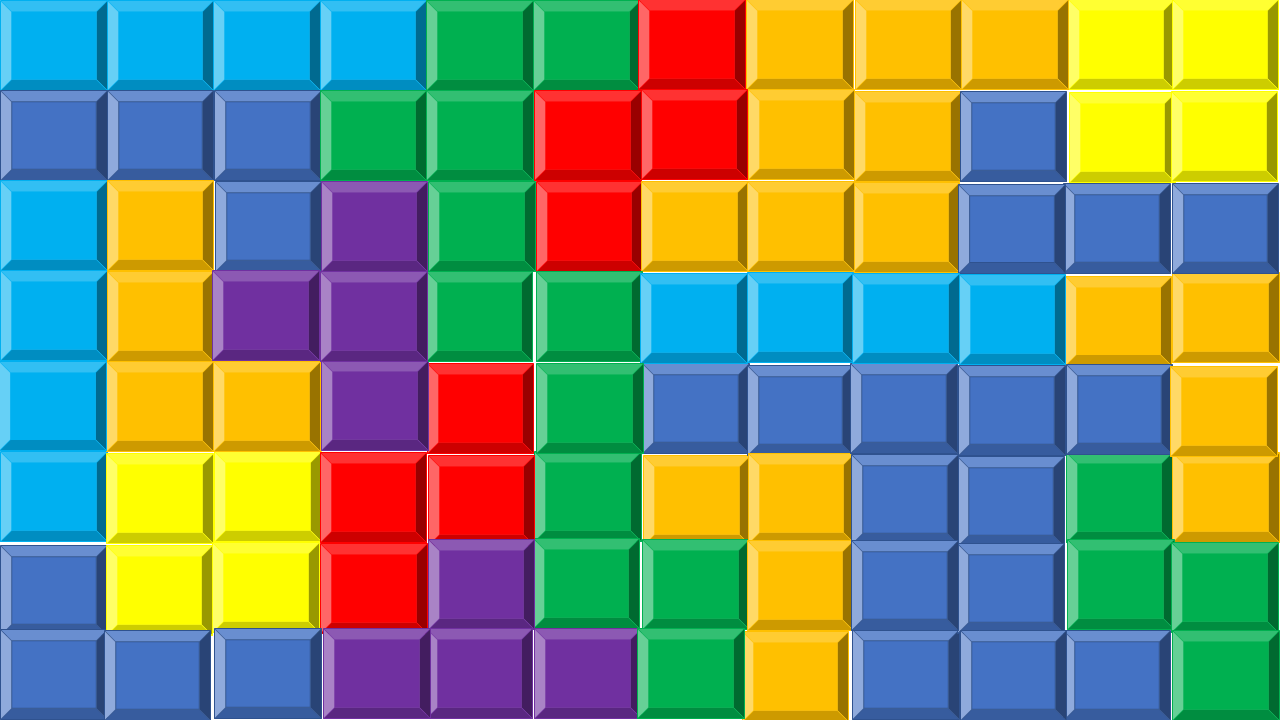
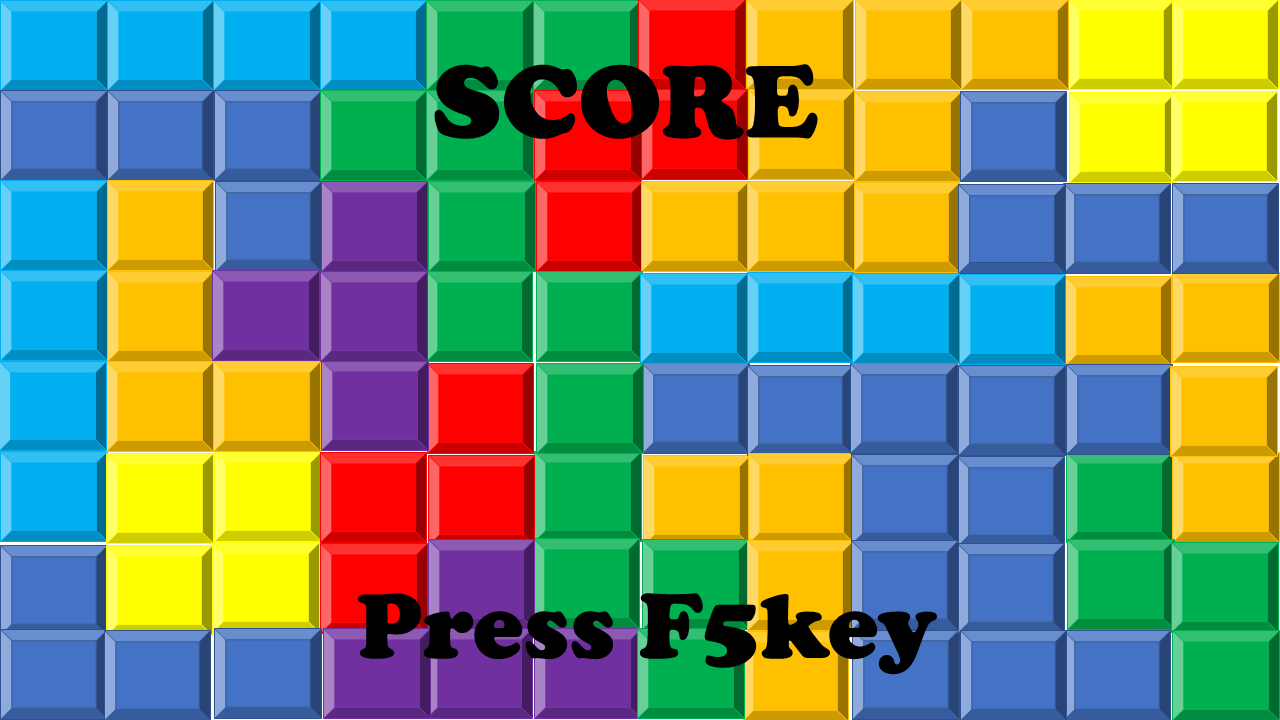
update:フィニッシュとスタートに画像を追加、修正

Changed region(s): [[0.2812, 0.825, 0.75, 0.9472], [0.3125, 0.0917, 0.6562, 0.2139]]

diff --git a/tetris/js/obj_tetris.js b/tetris/js/obj_tetris.js
@@ -124,7 +124,7 @@ function () {
             this.adm = new AudioManager();
             //canvasの設定
             var canvas = document.getElementById('canvas');
-            const canWid = 900;canvas.width = canWid;
+            const canWid = 1200;canvas.width = canWid;
             const canHei = (this.field.length-1)*50;canvas.height = canHei;
             //コンテキストを取得
             this.ctx = canvas.getContext('2d');
@@ -515,10 +515,8 @@ function () {
             //スコア
             ctx.fillStyle = "black";
             ctx.font = "64px serif";
-            ctx.textAlign = "left";
-            ctx.fillText("SCORE", 350, 150);
             ctx.textAlign = "right";
-            ctx.fillText(this.status.score, 450, 250);
+            ctx.fillText(this.status.score, 450, 300);
         }
         //メインループ
         mainLoop(){
@@ -566,10 +564,32 @@ function () {
                     gameStarted = true;
                 }
                 break;
+            case 72:
+                event.preventDefault();
+                if(!gameStarted){
+                    const help = new Image();
+                    help.src = helps[helpPage];
+                    help.onload = ()=>{ctx.drawImage(help,0,0,1080,720);};
+                    helpPage++;
+                    if(helpPage >= helps.length) helpPage = 0;
+                }
+                break;
             default:
         }
     }
-    //main
+    //エントリポイント
+    var canvas = document.getElementById("canvas");
+    var ctx = canvas.getContext('2d');
+    var helpPage = 1;
+    var helps = [
+        "title.png",
+        "help.png",
+        "help2.png"
+    ];
+    const title = new Image();
+    title.src="title.png";
+    title.onload = ()=>{ctx.drawImage(title, 0, 0, 1080, 720);};
+    //テトリス本体
     const tetris = new Tetris(0);
     var timerID;
     var gameStarted = false;
@@ -580,6 +600,8 @@ function () {
         tetris.mainLoop();
     }
     function startGame(){
+        ctx.fillStyle = "white";
+        ctx.fillRect(0,0,1200,1200);
         mainLoop();
         tetris.fieldDraw();
         tetris.scoreDraw();

diff --git a/tetris/obj_tetris.html b/tetris/obj_tetris.html
@@ -6,20 +6,6 @@
         <div>
             <canvas id="canvas"></canvas>
         </div>
-        <script>
-            window.onload = ()=>{
-              var canvas = document.getElementById("canvas");
-              console.log(canvas);
-              var ctx = canvas.getContext('2d');
-            
-              const chara = new Image();
-              chara.src="title.png";
-              chara.onload = ()=>{
-                ctx.drawImage(chara, 0, 0, 900, 600);
-                 
-              };
-            };
-            </script>
         <script src="js/obj_tetris.js"></script>
     </body>
 
